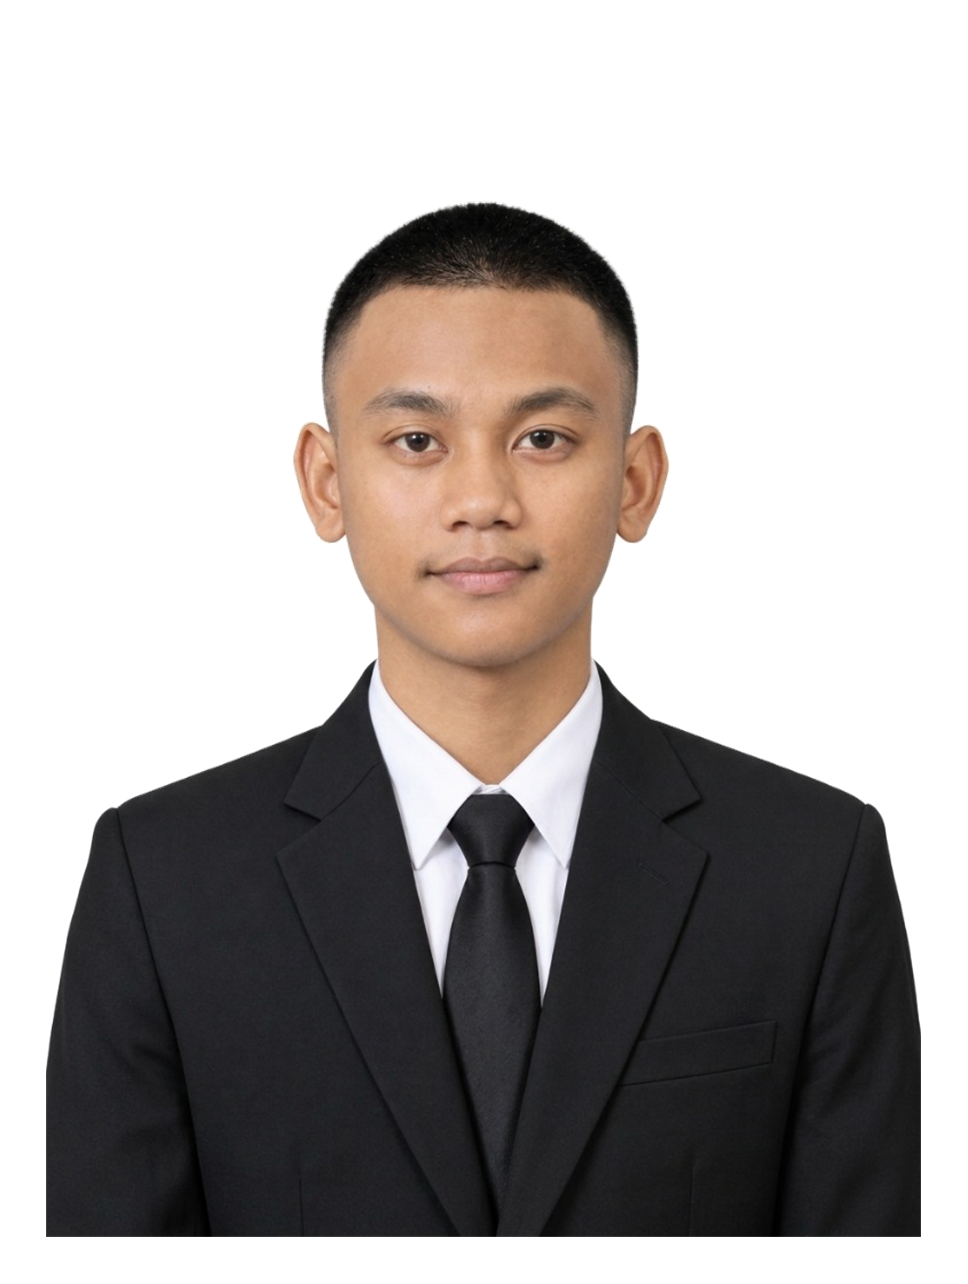
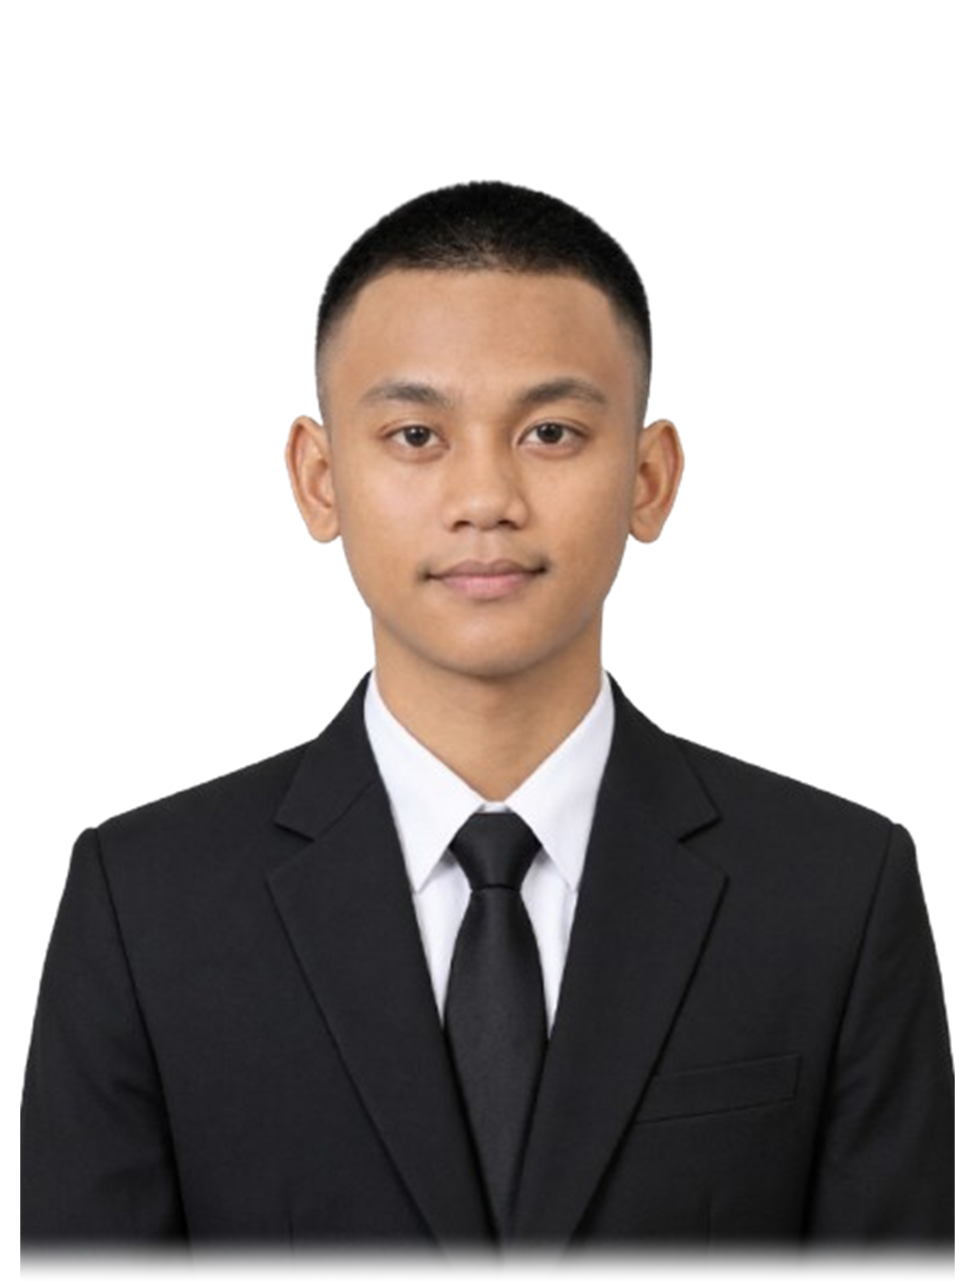
feat(hero): update to new authentic portrait cutout with 1:1 Luffy alignment

diff --git a/index.html b/index.html
@@ -182,7 +182,7 @@
           <!-- Persona 1: Muhammad Febriansyah (Real Authentic Portrait Photo, Clean Cutout) -->
           <img 
             id="heroPortraitImg" 
-            src="assets/images/febri_official_portrait.png?v=20261021_cleancutout_v8" 
+            src="assets/images/febri_official_portrait.png?v=20261021_cleancutout_v9" 
             alt="Muhammad Febriansyah" 
             class="hero-portrait-img"
           >
@@ -191,7 +191,7 @@
           <div class="hero-luffy-overlay" id="heroLuffyOverlay">
             <img 
               id="heroPortraitLuffy" 
-              src="assets/images/luffy_matching_cutout.png?v=20261021_cleancutout_v8" 
+              src="assets/images/luffy_matching_cutout.png?v=20261021_cleancutout_v9" 
               alt="Monkey D. Luffy Fire Mode Pose-Matched Cutout" 
               class="hero-portrait-img luffy-cutout-img"
             >
